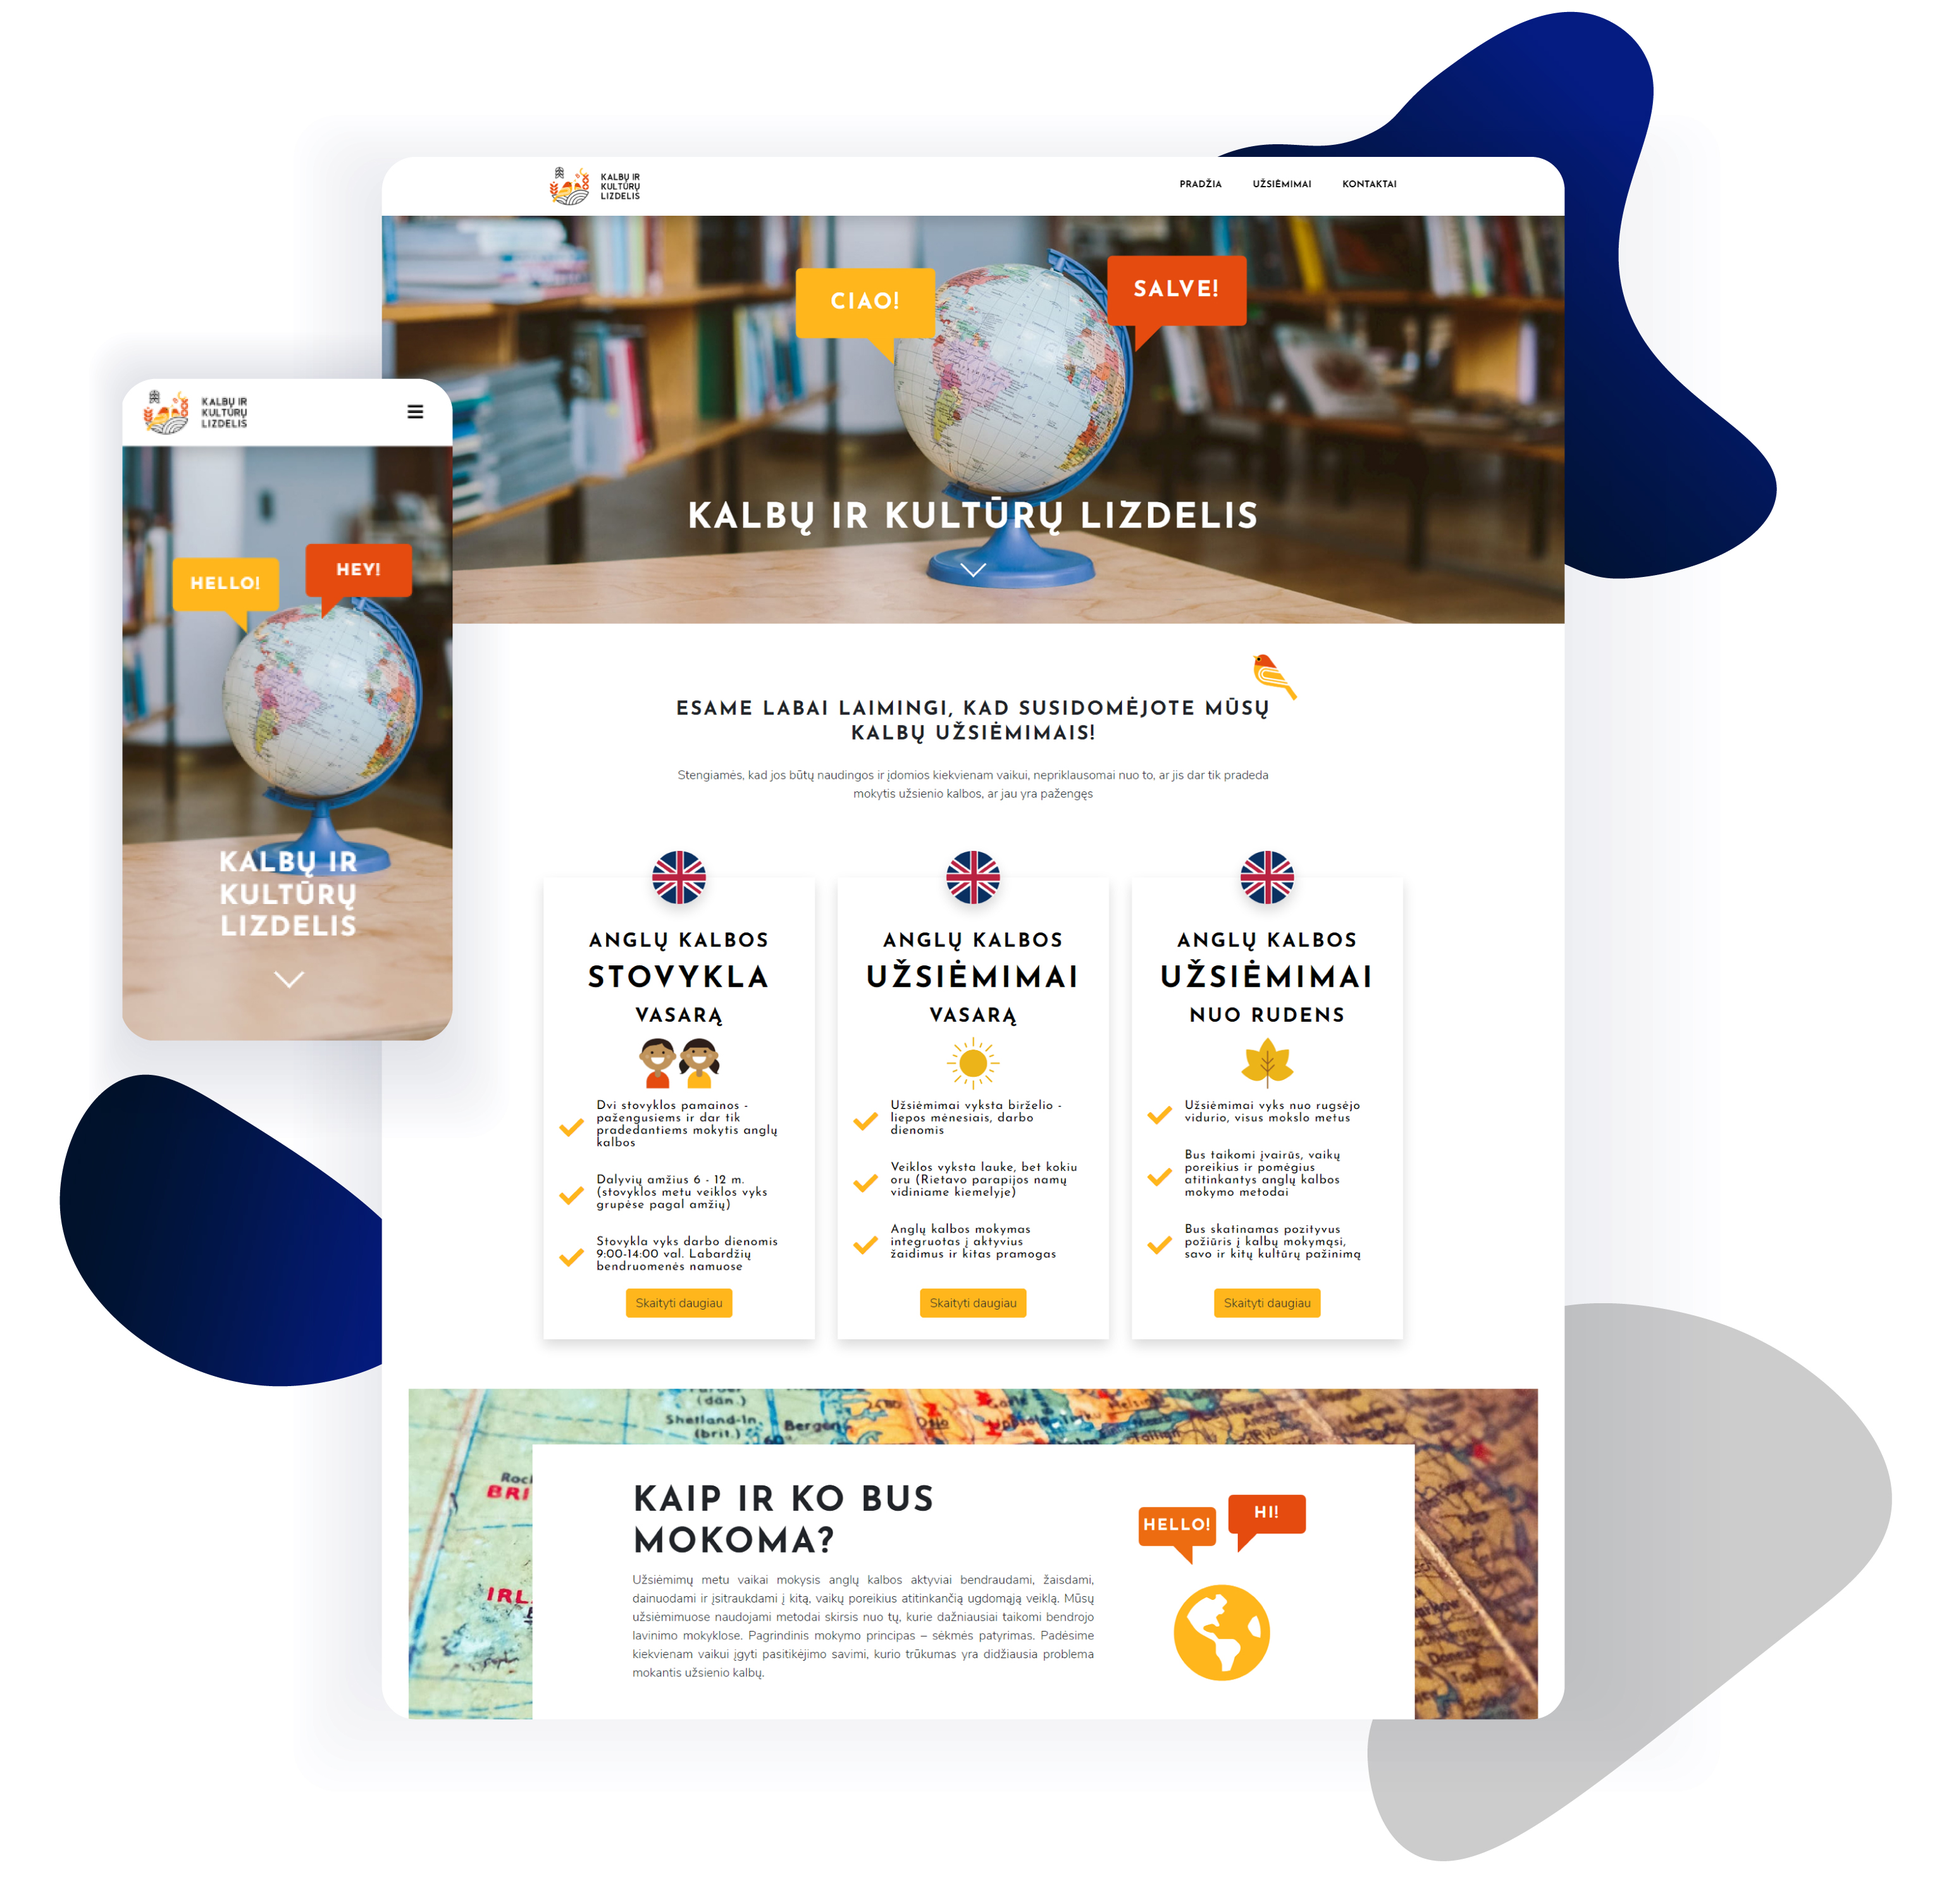
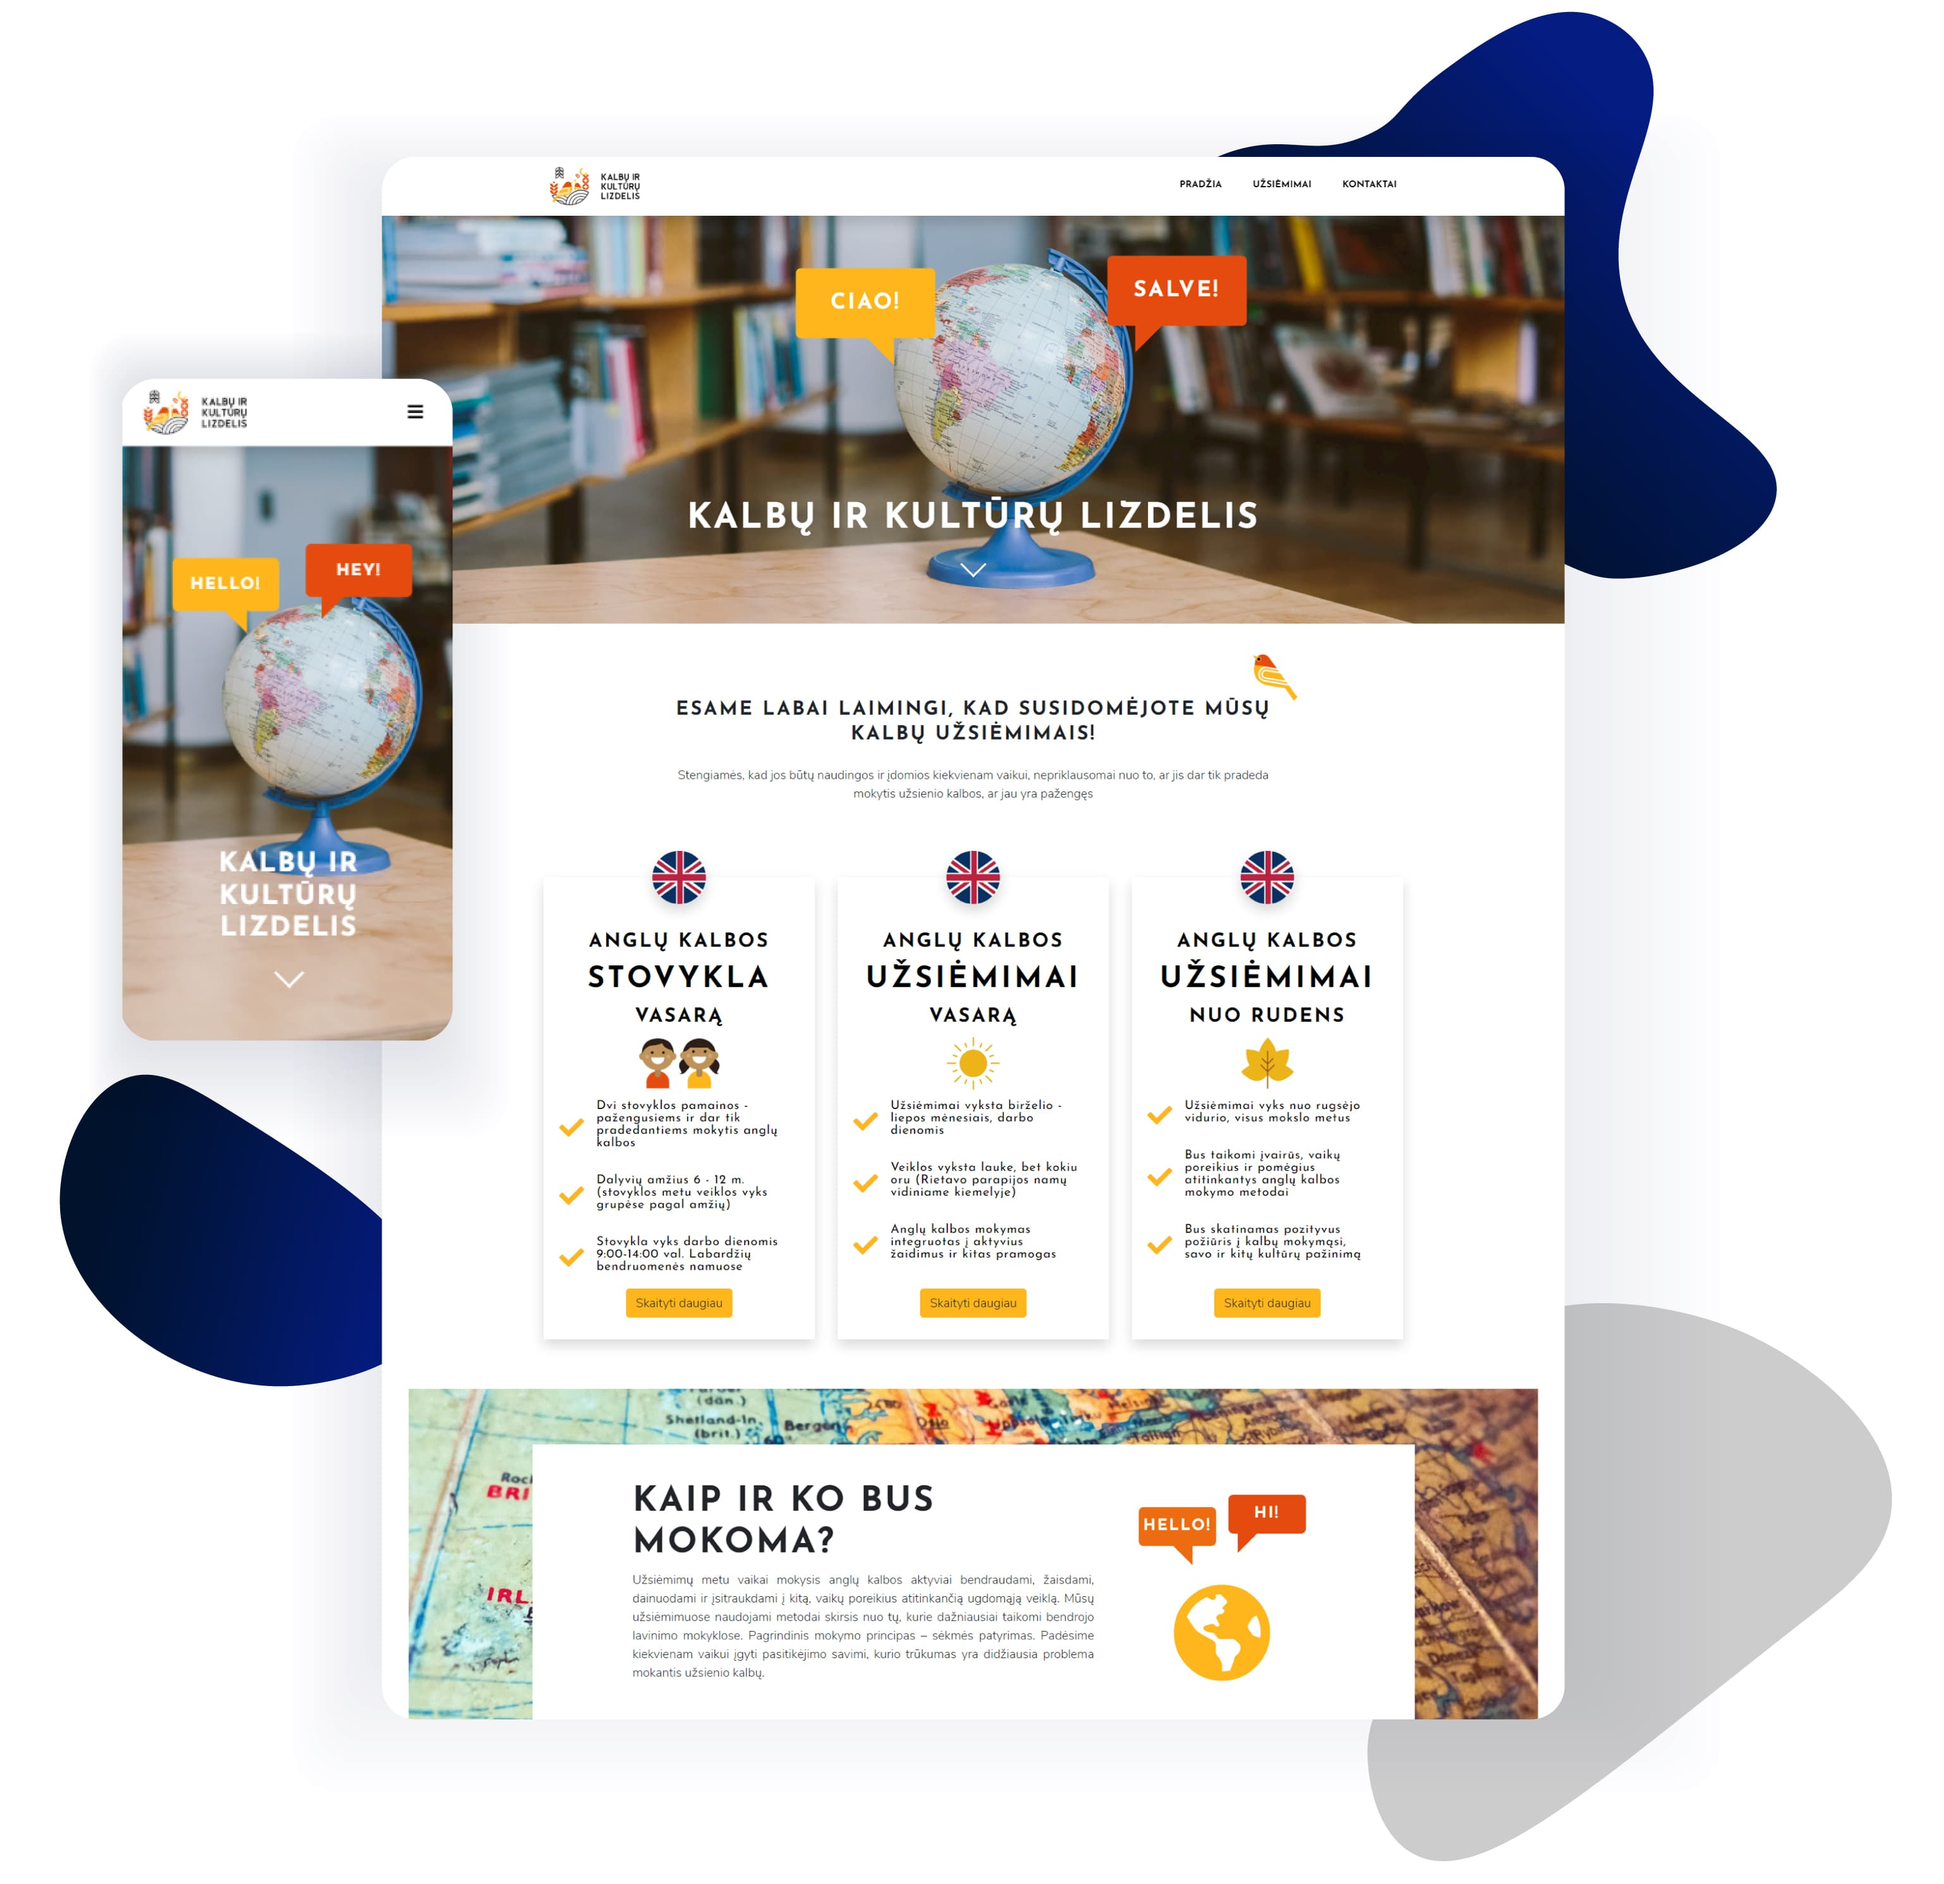
check quality

diff --git a/internetines_svetaines.html b/internetines_svetaines.html
@@ -209,7 +209,7 @@
                 </div>
                 <div class="row justify-content-center align-items-center mt-5">
                     <div class="col-md-6 mt-4 mt-md-0">
-                        <img src="img/Portfolio/portfolio_2.png" alt="" class="img-fluid js--wp-2">
+                        <img src="img/Portfolio/portfolio_2.jpg" alt="" class="img-fluid js--wp-2">
                     </div>
                     <div class="col-11 col-md-6 mt-5 mt-md-0">
                         <h3 class="text-secondary text-center text-md-left">Party Play</h3>
@@ -232,7 +232,7 @@
                 </div>
                 <div class="row justify-content-center flex-md-row-reverse align-items-center mt-5">
                     <div class="col-md-6 mt-4 mt-md-0">
-                        <img src="img/Portfolio/portfolio_3.png" alt="" class="img-fluid js--wp-3">
+                        <img src="img/Portfolio/portfolio_3.jpg" alt="" class="img-fluid js--wp-3">
                     </div>
                     <div class="col-11 col-md-6 mt-5 mt-md-0">
                         <h3 class="text-secondary text-center text-md-left">Kitokios gėlės</h3>
@@ -542,19 +542,19 @@
                             <h3 id="design-lizdelis" class="text-center text-secondary mt-5 pt-4">Svetainės vaizdas</h3>
                             <div class="my-5">
                                 <div>
-                                    <img src="img/lizdelis_screen/1.png" alt="" class="img-fluid shadow rounded">
+                                    <img src="img/lizdelis_screen/1.jpg" alt="" class="img-fluid shadow rounded">
                                 </div>
                                 <div class="mt-5 pt-4">
-                                    <img src="img/lizdelis_screen/2.png" alt="" class="img-fluid shadow rounded">
+                                    <img src="img/lizdelis_screen/2.jpg" alt="" class="img-fluid shadow rounded">
                                 </div>
                                 <div class="mt-5 pt-4">
-                                    <img src="img/lizdelis_screen/3.png" alt="" class="img-fluid shadow rounded">
+                                    <img src="img/lizdelis_screen/3.jpg" alt="" class="img-fluid shadow rounded">
                                 </div>
                                 <div class="mt-5 pt-4">
-                                    <img src="img/lizdelis_screen/4.png" alt="" class="img-fluid shadow rounded">
+                                    <img src="img/lizdelis_screen/4.jpg" alt="" class="img-fluid shadow rounded">
                                 </div>
                                 <div class="mt-5 pt-4">
-                                    <img src="img/lizdelis_screen/5.png" alt="" class="img-fluid shadow rounded">
+                                    <img src="img/lizdelis_screen/5.jpg" alt="" class="img-fluid shadow rounded">
                                 </div>
                             </div>
                     </div>
@@ -571,7 +571,7 @@
                             <div class="row flex-column justify-content-center align-items-center mt-5">
                                 <img src="img/logo-partyplay.jpg" alt="" height="120">
                                 <div class="col-md-8 mt-2">
-                                    <img src="img/Portfolio/portfolio_2.png" alt="" class="img-fluid">
+                                    <img src="img/Portfolio/portfolio_2.jpg" alt="" class="img-fluid">
                                 </div>
                                 <a href="https://www.partyplay.lt/" target="_blank" class="text-center text-secondary mt-4 link-text mb-0">eiti į www.partyplay.lt <span style="vertical-align: middle;"><ion-icon name="arrow-forward-outline"></ion-icon></span></a>
                                 <hr class="hr-small mt-4">
@@ -642,19 +642,19 @@
                             <h3 id="design-partyplay" class="text-center text-secondary mt-5 pt-4">Svetainės vaizdas</h3>
                             <div class="my-5">
                                 <div>
-                                    <img src="img/partyplay-screen/1.png" alt="" class="img-fluid shadow rounded">
+                                    <img src="img/partyplay-screen/1.jpg" alt="" class="img-fluid shadow rounded">
                                 </div>
                                 <div class="mt-5 pt-4">
-                                    <img src="img/partyplay-screen/2.png" alt="" class="img-fluid shadow rounded">
+                                    <img src="img/partyplay-screen/2.jpg" alt="" class="img-fluid shadow rounded">
                                 </div>
                                 <div class="mt-5 pt-4">
-                                    <img src="img/partyplay-screen/3.png" alt="" class="img-fluid shadow rounded">
+                                    <img src="img/partyplay-screen/3.jpg" alt="" class="img-fluid shadow rounded">
                                 </div>
                                 <div class="mt-5 pt-4">
-                                    <img src="img/partyplay-screen/4.png" alt="" class="img-fluid shadow rounded">
+                                    <img src="img/partyplay-screen/4.jpg" alt="" class="img-fluid shadow rounded">
                                 </div>
                                 <div class="mt-5 pt-4">
-                                    <img src="img/partyplay-screen/5.png" alt="" class="img-fluid shadow rounded">
+                                    <img src="img/partyplay-screen/5.jpg" alt="" class="img-fluid shadow rounded">
                                 </div>
                             </div>
                     </div>
@@ -671,7 +671,7 @@
                             <div class="row flex-column justify-content-center align-items-center mt-5">
                                 <img src="img/logo-kitokiosgeles.png" alt="" height="90">
                                 <div class="col-md-8 mt-4">
-                                    <img src="img/Portfolio/portfolio_3.png" alt="" class="img-fluid">
+                                    <img src="img/Portfolio/portfolio_3.jpg" alt="" class="img-fluid">
                                 </div>
                                 <a href="https://www.kitokiosgeles.lt/" target="_blank" class="text-center text-secondary mt-5 link-text mb-0">eiti į www.kitokiosgeles.lt <span style="vertical-align: middle;"><ion-icon name="arrow-forward-outline"></ion-icon></span></a>
                                 <hr class="hr-small mt-4">
@@ -725,28 +725,28 @@
                         <h3 id="design-kitokiosgeles" class="text-center text-secondary mt-5 pt-4">Svetainės vaizdas</h3>
                             <div class="my-5">
                                 <div>
-                                    <img src="img/kitokiosgeles-screen/1.png" alt="" class="img-fluid shadow rounded">
+                                    <img src="img/kitokiosgeles-screen/1.jpg" alt="" class="img-fluid shadow rounded">
                                 </div>
                                 <div class="mt-5 pt-4">
-                                    <img src="img/kitokiosgeles-screen/2.png" alt="" class="img-fluid shadow rounded">
+                                    <img src="img/kitokiosgeles-screen/2.jpg" alt="" class="img-fluid shadow rounded">
                                 </div>
                                 <div class="mt-5 pt-4">
-                                    <img src="img/kitokiosgeles-screen/3.png" alt="" class="img-fluid shadow rounded">
+                                    <img src="img/kitokiosgeles-screen/3.jpg" alt="" class="img-fluid shadow rounded">
                                 </div>
                                 <div class="mt-5 pt-4">
-                                    <img src="img/kitokiosgeles-screen/4.png" alt="" class="img-fluid shadow rounded">
+                                    <img src="img/kitokiosgeles-screen/4.jpg" alt="" class="img-fluid shadow rounded">
                                 </div>
                                 <div class="mt-5 pt-4">
-                                    <img src="img/kitokiosgeles-screen/5.png" alt="" class="img-fluid shadow rounded">
+                                    <img src="img/kitokiosgeles-screen/5.jpg" alt="" class="img-fluid shadow rounded">
                                 </div>
                                 <div class="mt-5 pt-4">
-                                    <img src="img/kitokiosgeles-screen/6.png" alt="" class="img-fluid shadow rounded">
+                                    <img src="img/kitokiosgeles-screen/6.jpg" alt="" class="img-fluid shadow rounded">
                                 </div>
                                 <div class="mt-5 pt-4">
-                                    <img src="img/kitokiosgeles-screen/7.png" alt="" class="img-fluid shadow rounded">
+                                    <img src="img/kitokiosgeles-screen/7.jpg" alt="" class="img-fluid shadow rounded">
                                 </div>
                                 <div class="mt-5 pt-4">
-                                    <img src="img/kitokiosgeles-screen/8.png" alt="" class="img-fluid shadow rounded">
+                                    <img src="img/kitokiosgeles-screen/8.jpg" alt="" class="img-fluid shadow rounded">
                                 </div>
                         </div>
                     </div>

diff --git a/css/style.css b/css/style.css
@@ -66,6 +66,9 @@ a:hover {
   padding-right: 10px !important;
   padding-left: 10px !important; }
 
+.modal-dialog p {
+  font-weight: 300; }
+
 /* -----------------------------------
 
 HEADINGS
@@ -679,19 +682,19 @@ SECTION-CONTACTS
     font-size: 1.5rem !important; } }
 @media (min-width: 1300px) {
   .text-positioning-title {
-    padding-right: 75px; }
+    padding-right: 120px; }
 
   .text-positioning-1 {
-    padding-right: 75px; }
+    padding-right: 120px; }
 
   .text-positioning-2 {
-    padding-right: 75px; }
+    padding-right: 120px; }
 
   .text-positioning-3 {
-    padding-right: 75px; }
+    padding-right: 120px; }
 
   .text-positioning-4 {
-    padding-right: 75px; } }
+    padding-right: 120px; } }
 /* -----------------------------------  OLDIES  -------------------------------------*/
 /* --- skaičiuoklė. range pasirinkimas ---*/
 .range-wrap {
@@ -903,15 +906,8 @@ SECTION-CONTACTS
   border-top: 2px solid #A85698;
   margin: 0 auto; }
 
-.modal-dialog {
-  max-width: 800px !important;
-  margin: 1.75rem auto; }
-
 strong {
   font-weight: 500; }
-
-.modal-dialog p {
-  font-weight: 300; }
 
 /* --- preloader ---*/
 #spinner-front, #spinner-back {

diff --git a/scss/style.scss b/scss/style.scss
@@ -92,6 +92,10 @@ a:hover {
   padding-left: 10px !important;
 }
 
+.modal-dialog p {
+  font-weight: 300;
+}
+
 /* -----------------------------------
 
 HEADINGS
@@ -923,23 +927,23 @@ nav ul li a:before {
 // Extra extra large devices (large desktops, 1300px and up)
 @media (min-width: 1300px) {
   .text-positioning-title {
-    padding-right: 75px;
+    padding-right: 120px;
   }
 
   .text-positioning-1 {
-    padding-right: 75px;
+    padding-right: 120px;
   }
   
   .text-positioning-2 {
-    padding-right: 75px;
+    padding-right: 120px;
   }
   
   .text-positioning-3 {
-    padding-right: 75px;
+    padding-right: 120px;
   }
   
   .text-positioning-4 {
-    padding-right: 75px;
+    padding-right: 120px;
   }
 }
 
@@ -1221,17 +1225,8 @@ nav ul li a:before {
   margin: 0 auto;
 }
 
-.modal-dialog {
-  max-width: 800px !important;
-  margin: 1.75rem auto; 
-}
-
 strong {
   font-weight: 500;
-}
-
-.modal-dialog p {
-  font-weight: 300;
 }
 
 /* --- preloader ---*/
